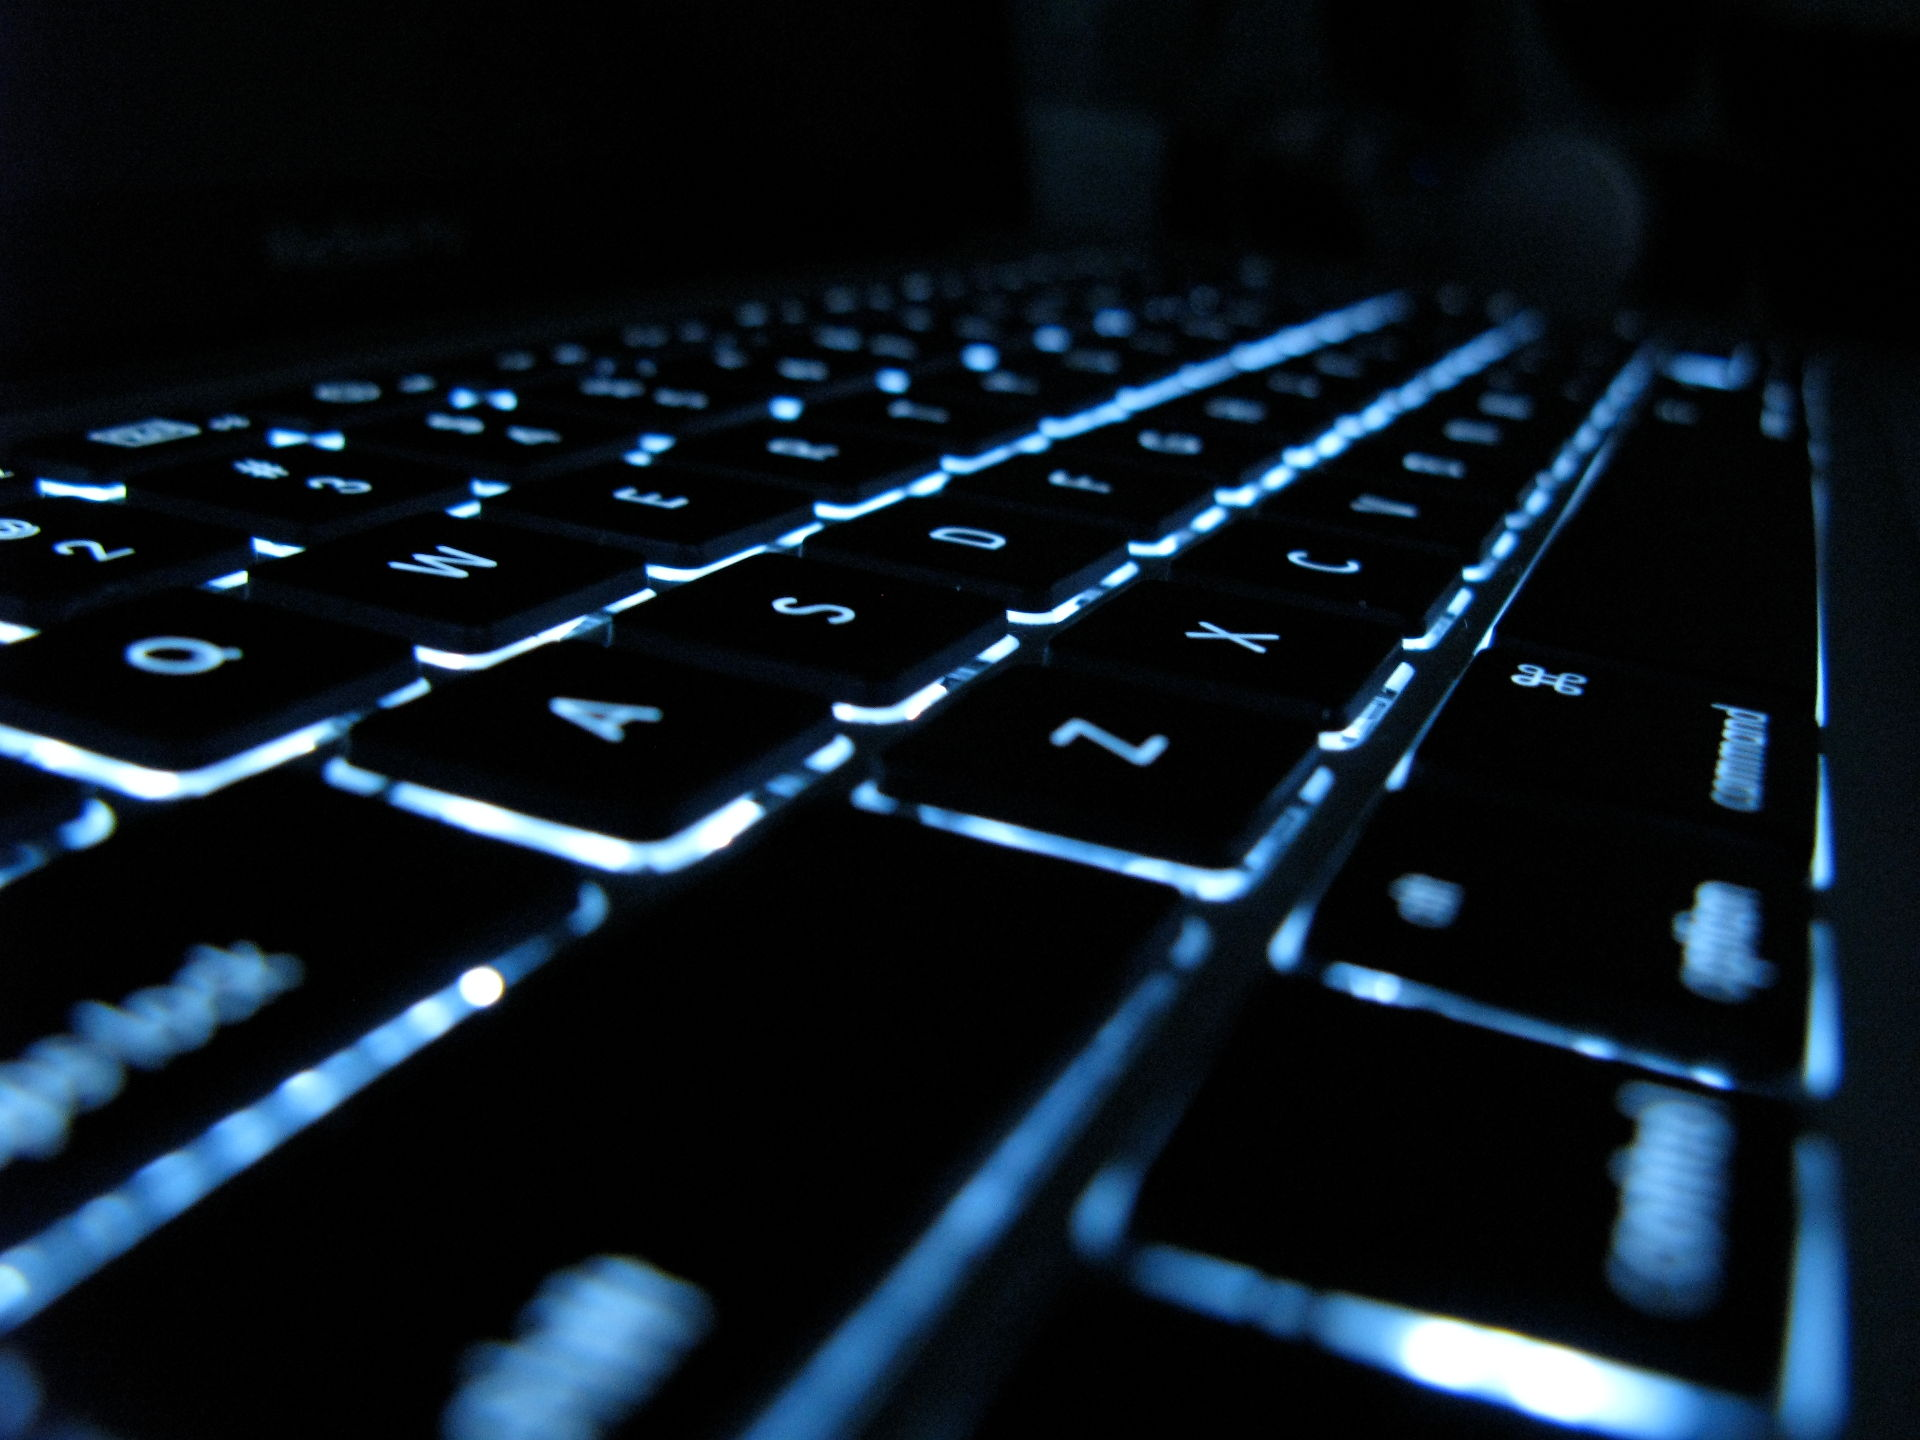
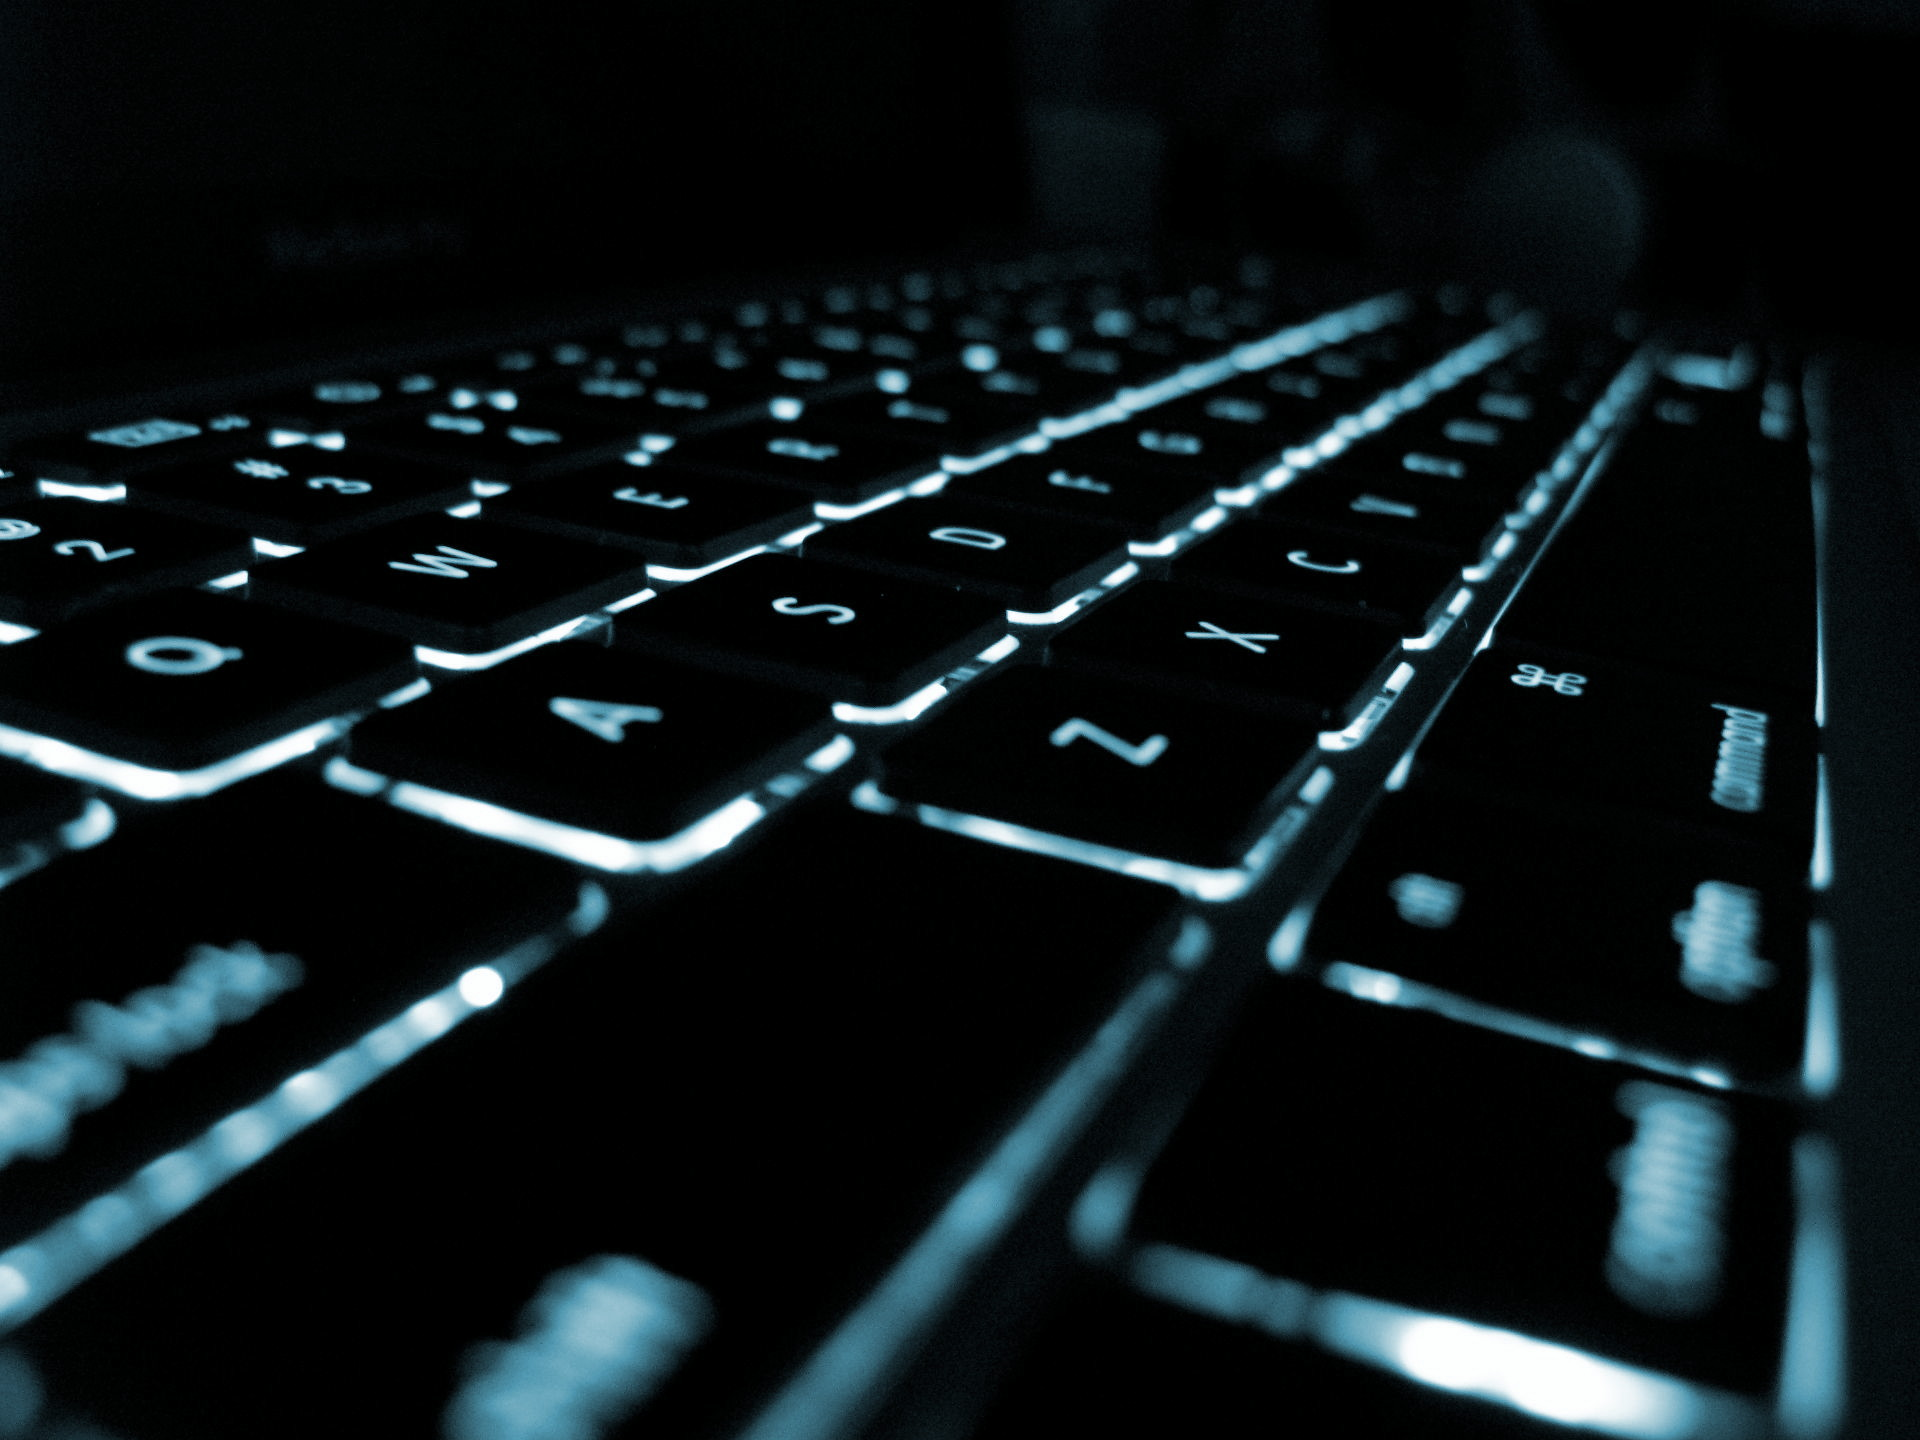
improved hero img, slight changes to contact section

diff --git a/index.html b/index.html
@@ -89,10 +89,10 @@
       <div class='about_point'>
         <!-- <h3>Passion <i class="fa fa-fire" aria-hidden="true"></i></h3> -->
         <p>
-          There's a deep satisfaction that goes with opening up a text editor to build something, to see it go from concept it to something functional and practical.
+          There's a deep satisfaction that goes with opening up a text editor to build something, to see it go from concept in to something functional and practical.
         </p>
         <p>
-          When I began learning how to write code I became obsessed and learned things that I previously thought would take years to learn, now I spend as much of my time as possible honing and adding new skills to continuously improve the craft. It's exiting to have something that gives you a sense of purpose with an actual reach into the world. Code is it for me.
+          When I began learning how to write code I became obsessed and learned things that I previously thought would take years to get a hang of, now I spend as much of my time as possible honing and adding new skills to continuously improve the craft. It's exiting to have something that gives you a sense of purpose with an actual reach into the world. Code is it for me.
         </p>
       </div>
     </section>
@@ -200,15 +200,21 @@
         <div class='contact_social'>
 
         <div class='base_btn contact_social-btn'>
-          <button><i class="fa fa-linkedin" aria-hidden="true"></i></button>
+          <a href='https://www.linkedin.com/in/dovydas-stirpeika-4b3128133/' target='_blank'>
+            <button><i class="fa fa-linkedin" aria-hidden="true"></i></button>
+          </a>
         </div>
 
         <div class='base_btn contact_social-btn'>
-          <button><i class="fa fa-facebook" aria-hidden="true"></i></button>
+          <a href='https://www.facebook.com/dovydas.stirpeika' target='_blank'>
+            <button><i class="fa fa-facebook" aria-hidden="true"></i></button>
+          </a>
         </div>
 
         <div class='base_btn contact_social-btn'>
-          <button><i class="fa fa-twitter" aria-hidden="true"></i></button>
+          <a href='https://twiter.com' target='_blank'>
+            <button><i class="fa fa-twitter" aria-hidden="true"></i></button>
+          </a>
         </div>
 
         <!-- <div class='base_btn contact_social-btn'>

diff --git a/dev/sass/_about.sass b/dev/sass/_about.sass
@@ -29,13 +29,3 @@
     margin: auto
   .about_bot-sect
     display: block
-//
-
-//   .about_top-sect
-//     flex-direction: column
-//     .about_point
-//       flex: none
-//   .about_bot-sect
-//     width: 100%
-//   .about_ghost-bot
-    // height: 15px
